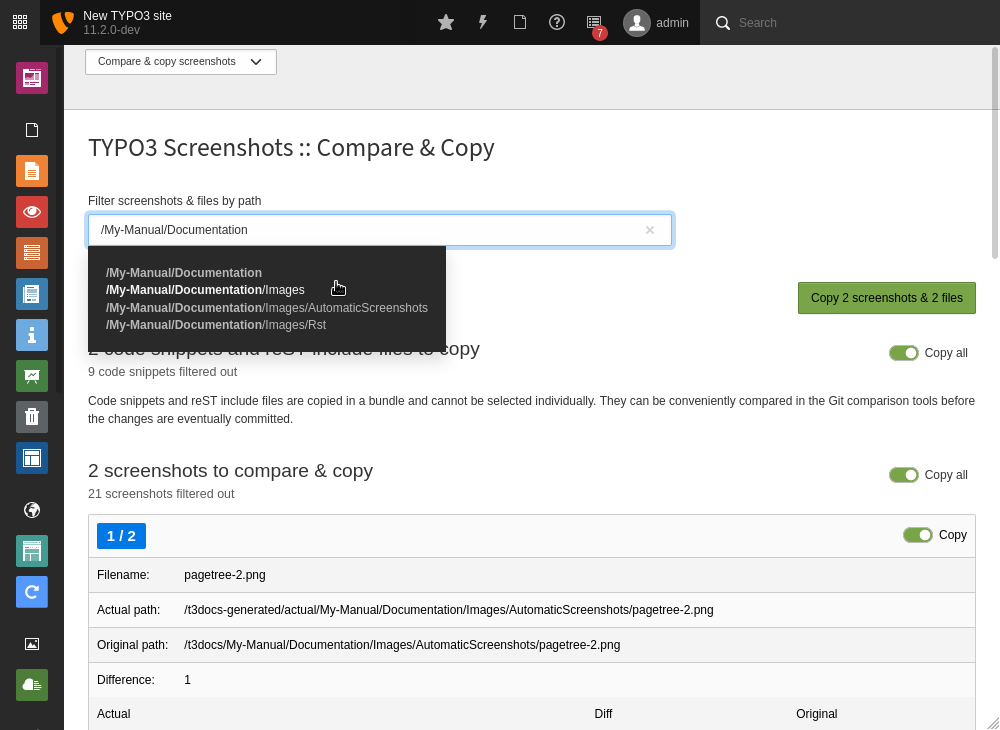
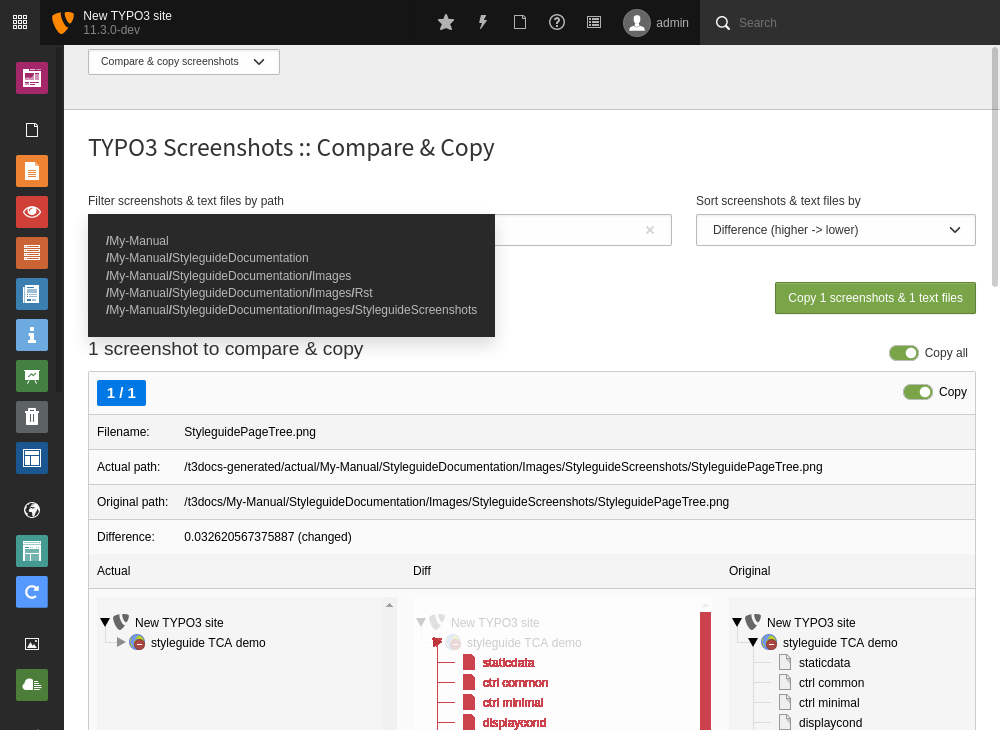
[DOCS] Document the sorting of screenshots by the sorting box

diff --git a/README.rst b/README.rst
@@ -569,9 +569,8 @@ On this page you compare the newly created screenshots of the runner with the or
 current state on the left, the original state on the right and the difference map in the middle. At the top it shows
 the difference as a number.
 
-Each screenshot is selected for copying by default, but can be deselected individually and in aggregation. All text
-files such as the screenshot reST include files or the code snippets cannot be compared, but can only be selected or
-deselected for copying in bundles: They must be handled externally by the Git comparison tools.
+Each screenshot is selected for copying by default, but can be deselected individually and in the aggregation. The same
+applies to text files such as the screenshot reST include files or the code snippets.
 
 .. image:: docs/screenshots_manager_compare.png
 
@@ -580,6 +579,8 @@ a path in the search field at the top of the page: Only files with a matching pa
 expressions are supported and automatic suggestion of available paths is enabled.
 
 .. image:: docs/screenshots_manager_compare_searchbox.png
+
+Optionally sort the list by criteria, such as difference, file name or file path.
 
 When you have confirmed the changes, pressing the "Copy screenshots" button will copy the screenshots to the original
 location.
